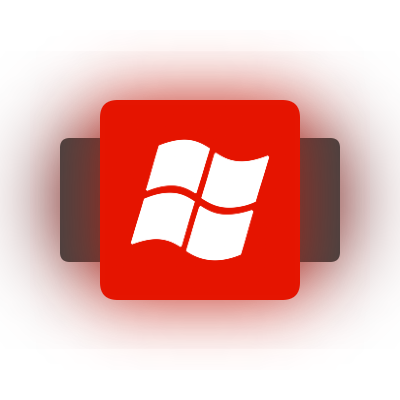
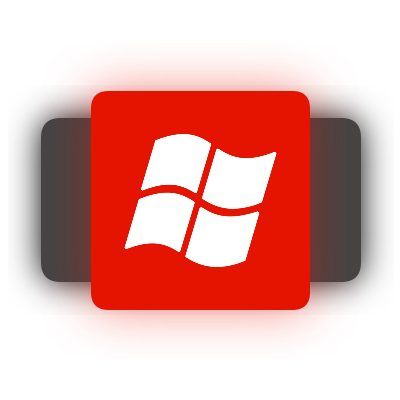
Lots of small changes

Changed region(s): [[0.06, 0.18, 0.96, 0.81], [0.3, 0.33, 0.69, 0.69]]

diff --git a/Windows Phone 7 ROM Manager/Windows Phone 7 ROM Manager/MainPage.xaml b/Windows Phone 7 ROM Manager/Windows Phone 7 ROM Manager/MainPage.xaml
@@ -10,10 +10,17 @@
 
     <Grid>
         <Grid.RowDefinitions>
-            <RowDefinition Height="48" />
+            <RowDefinition Height="38" />
             <RowDefinition Height="*" />
         </Grid.RowDefinitions>
-            <TextBlock Text="&#xE782;" FontFamily="Hololens MDL2 Assets" FontSize="25" Margin="15,10,0,0"/>
-            <TextBlock Text="Windows Phone 7 ROM Manager" Margin="50,12,0,0" Width="220" HorizontalAlignment="Left" FontWeight="Medium"/>
+            <TextBlock Text="&#xE782;" FontFamily="Hololens MDL2 Assets" FontSize="25" Margin="15,8,0,0"/>
+            <TextBlock Text="Windows Phone 7 ROM Manager" Margin="50,10,0,0" Width="220" HorizontalAlignment="Left" FontWeight="Medium"/>
+            <Image Source="ms-appx:///Assets/wp7iconshadow.png" Height="40" Width="40" Margin="0,0,0,0"/>
+        <NavigationView x:Name="mainshellnav" Grid.Row="1" Background="{ThemeResource SystemControlAcrylicElementBrush}">
+            <NavigationView.MenuItems>
+                <NavigationViewItem Icon="Home" Content="Home"/>
+            </NavigationView.MenuItems>
+            <Frame x:Name="contentFrame"/>
+        </NavigationView>
     </Grid>
 </Page>
